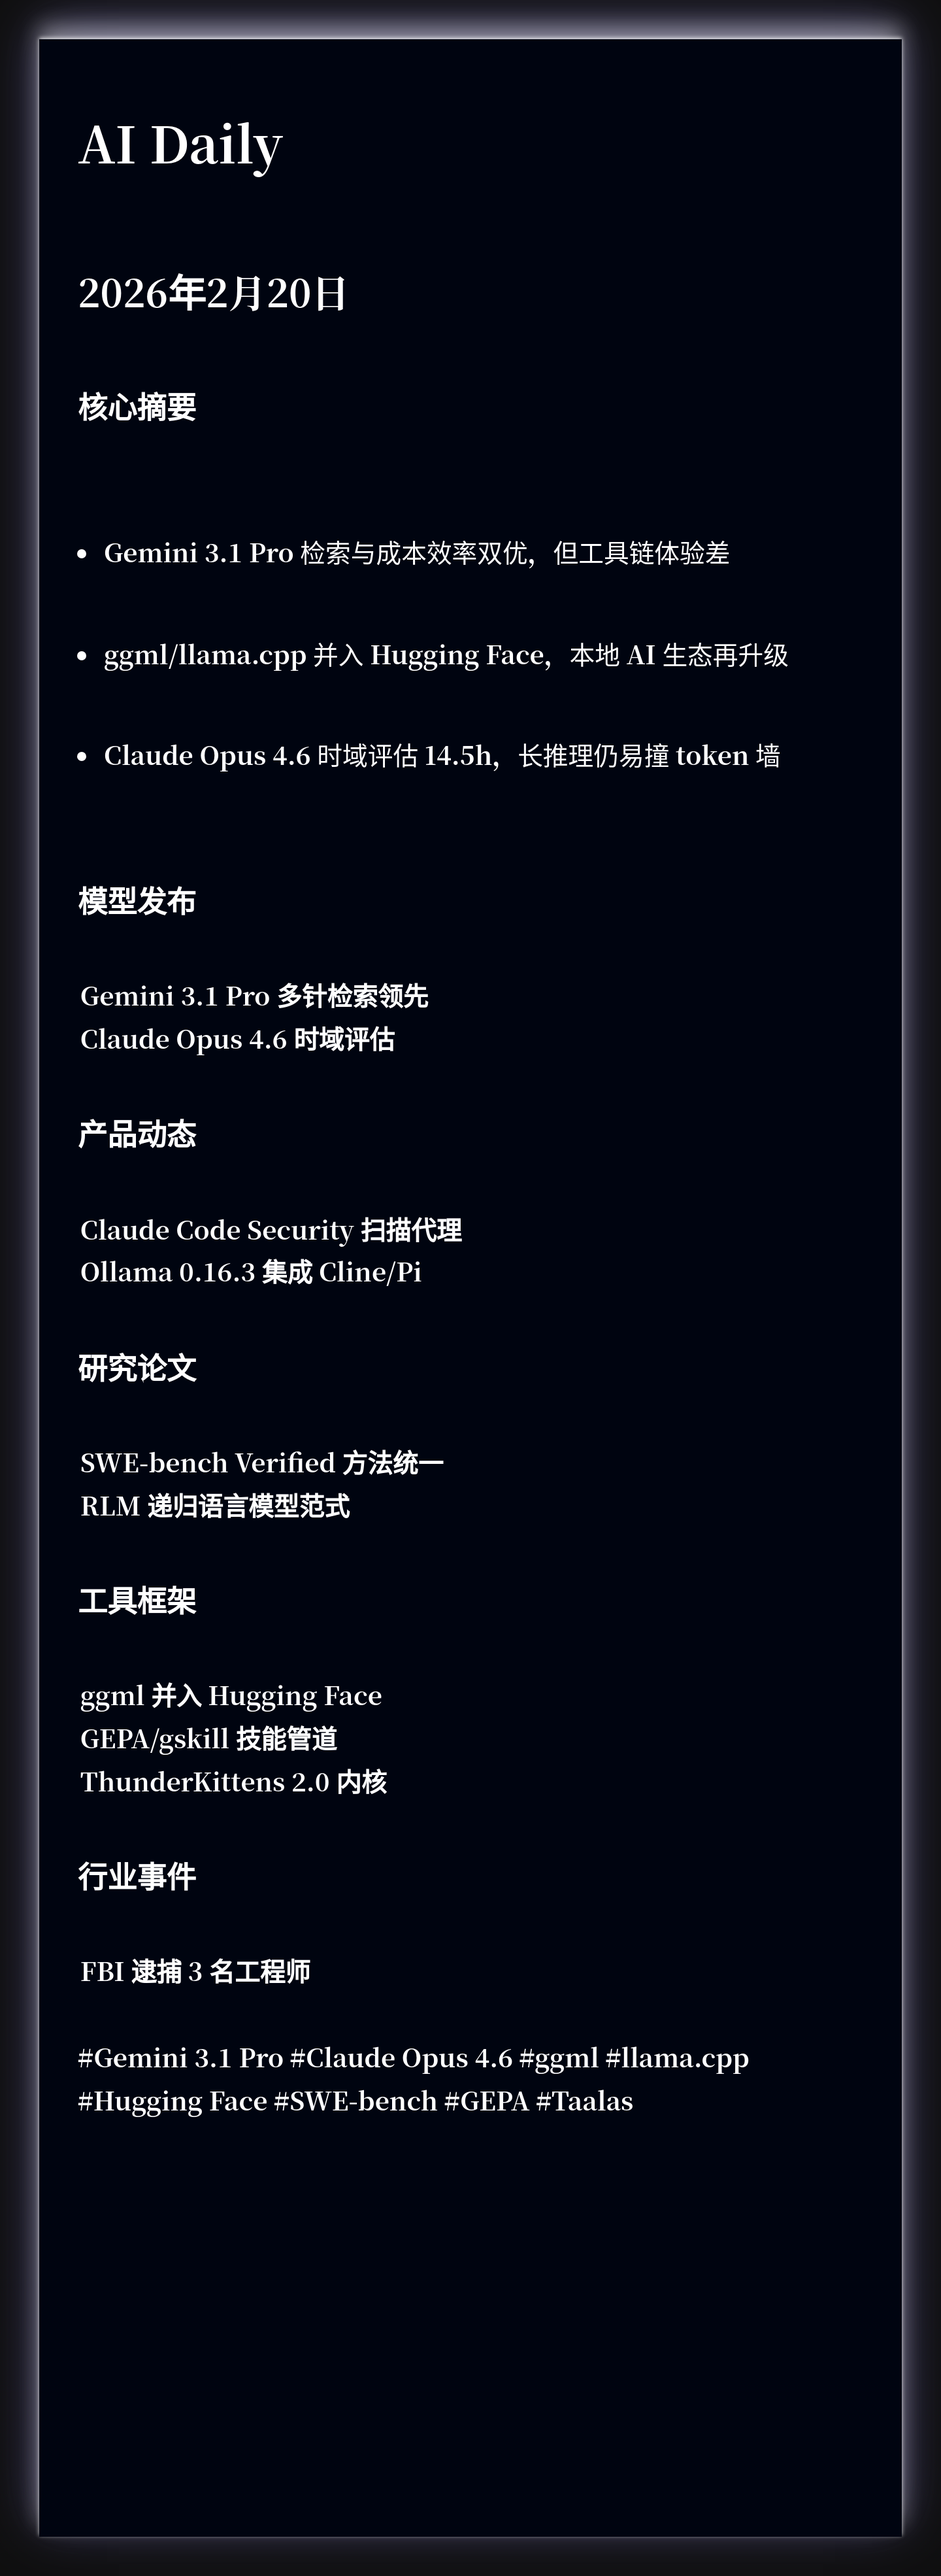
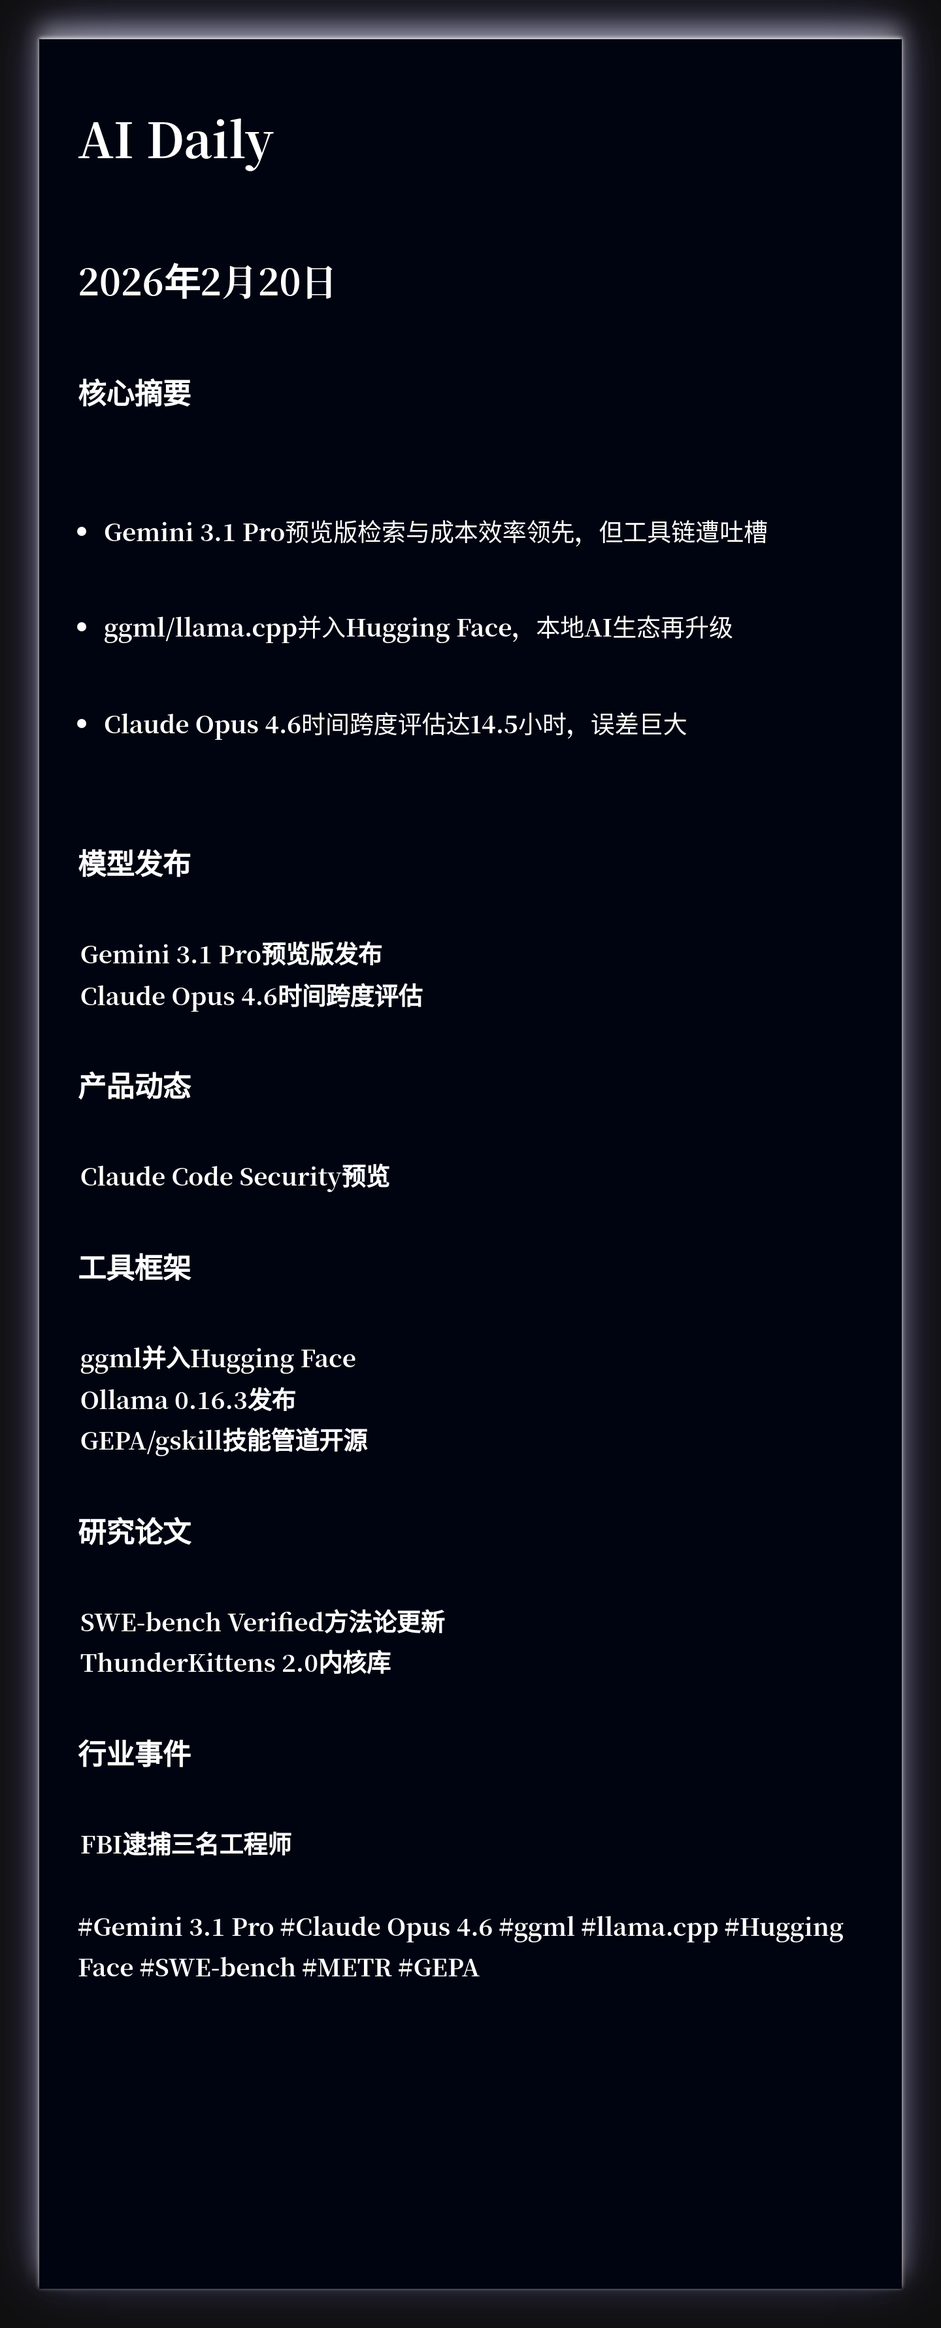
🤖 Auto update AI Daily - {{ date }} c12df99939e49153058be8885637e517e0945aa2

diff --git a/2026-02-20.html b/2026-02-20.html
@@ -5,7 +5,7 @@
     <meta name="viewport" content="width=device-width, initial-scale=1.0">
     <title>AI Daily · 2026年2月20日 星期五</title>
     <meta name="description" content="每日 AI 前沿资讯，智能分类，快速掌握核心动态">
-    <meta name="keywords" content="Gemini 3.1 Pro, Claude Opus 4.6, ggml, llama.cpp, Hugging Face, SWE-bench, GEPA, Taalas, Anthropic, METR, AI, 人工智能, 机器学习, 深度学习, 资讯, 日报">
+    <meta name="keywords" content="Gemini 3.1 Pro, Claude Opus 4.6, ggml, llama.cpp, Hugging Face, SWE-bench, METR, GEPA, Taalas, ThunderKittens, AI, 人工智能, 机器学习, 深度学习, 资讯, 日报">
     <link rel="stylesheet" href="css/styles.css">
 </head>
 <body data-theme="blue">
@@ -24,9 +24,9 @@
             <section class="summary-card">
                 <h2 class="section-title">📌 今日核心摘要</h2>
                 <ul class="summary-list">
-                <li class="summary-item">Gemini 3.1 Pro 检索与成本效率双优，但工具链体验差</li>
-                <li class="summary-item">ggml/llama.cpp 并入 Hugging Face，本地 AI 生态再升级</li>
-                <li class="summary-item">Claude Opus 4.6 时域评估 14.5h，长推理仍易撞 token 墙</li>
+                <li class="summary-item">Gemini 3.1 Pro预览版检索与成本效率领先，但工具链遭吐槽</li>
+                <li class="summary-item">ggml/llama.cpp并入Hugging Face，本地AI生态再升级</li>
+                <li class="summary-item">Claude Opus 4.6时间跨度评估达14.5小时，误差巨大</li>
                 </ul>
             </section>
 
@@ -41,20 +41,20 @@
 
                 <article class="news-card">
                     <div class="news-card-header">
-                        <h3 class="news-title">Gemini 3.1 Pro 多针检索领先</h3>
-                        <a href="https://x.com/DillonUzar/status/2024655613293215855" class="item-link" target="_blank" rel="noopener">详情</a>
+                        <h3 class="news-title">Gemini 3.1 Pro预览版发布</h3>
+                        <a href="https://x.com/ArtificialAnlys/status/2024677979390169536" class="item-link" target="_blank" rel="noopener">详情</a>
                     </div>
-                    <p class="news-summary">8-needle@128k AUC 87.8% 超 GPT-5.2，成本仅其 39%</p>
-                    <div class="item-tags"><span class="tag">#Gemini 3.1 Pro</span> <span class="tag">#Google</span> <span class="tag">#GPT-5.2</span></div>
+                    <p class="news-summary">128k上下文检索逼近GPT-5.2，成本仅其39%</p>
+                    <div class="item-tags"><span class="tag">#Google</span> <span class="tag">#Gemini</span> <span class="tag">#GPT-5.2</span></div>
                 </article>
 
                 <article class="news-card">
                     <div class="news-card-header">
-                        <h3 class="news-title">Claude Opus 4.6 时域评估</h3>
+                        <h3 class="news-title">Claude Opus 4.6时间跨度评估</h3>
                         <a href="https://x.com/METR_Evals/status/2024923422867030027" class="item-link" target="_blank" rel="noopener">详情</a>
                     </div>
-                    <p class="news-summary">METR 测得 50% 任务可持续 14.5h，置信区间极宽</p>
-                    <div class="item-tags"><span class="tag">#Claude Opus 4.6</span> <span class="tag">#Anthropic</span> <span class="tag">#METR</span></div>
+                    <p class="news-summary">METR测得50%任务完成时间14.5小时，置信区间6-98小时</p>
+                    <div class="item-tags"><span class="tag">#Anthropic</span> <span class="tag">#Claude</span> <span class="tag">#METR</span></div>
                 </article>
 
                 </div>
@@ -64,55 +64,17 @@
                 <div class="category-header">
                     <span class="category-icon">💼</span>
                     <h2 class="category-title">产品动态</h2>
-                    <span class="category-count">2</span>
+                    <span class="category-count">1</span>
                 </div>
                 <div class="news-grid">
 
                 <article class="news-card">
                     <div class="news-card-header">
-                        <h3 class="news-title">Claude Code Security 扫描代理</h3>
+                        <h3 class="news-title">Claude Code Security预览</h3>
                         <a href="https://x.com/claudeai/status/2024907535145468326" class="item-link" target="_blank" rel="noopener">详情</a>
                     </div>
-                    <p class="news-summary">预览版自动发现 500+ OSS 漏洞并给出补丁建议</p>
-                    <div class="item-tags"><span class="tag">#Anthropic</span> <span class="tag">#Claude Code</span> <span class="tag">#安全</span></div>
-                </article>
-
-                <article class="news-card">
-                    <div class="news-card-header">
-                        <h3 class="news-title">Ollama 0.16.3 集成 Cline/Pi</h3>
-                        <a href="https://x.com/ollama/status/2024978932127187375" class="item-link" target="_blank" rel="noopener">详情</a>
-                    </div>
-                    <p class="news-summary">ollama launch 一键拉起本地模型开发链</p>
-                    <div class="item-tags"><span class="tag">#Ollama</span> <span class="tag">#本地AI</span></div>
-                </article>
-
-                </div>
-            </section>
-
-            <section class="category-section">
-                <div class="category-header">
-                    <span class="category-icon">📚</span>
-                    <h2 class="category-title">研究论文</h2>
-                    <span class="category-count">2</span>
-                </div>
-                <div class="news-grid">
-
-                <article class="news-card">
-                    <div class="news-card-header">
-                        <h3 class="news-title">SWE-bench Verified 方法统一</h3>
-                        <a href="https://x.com/EpochAIResearch/status/2024924403142910137" class="item-link" target="_blank" rel="noopener">详情</a>
-                    </div>
-                    <p class="news-summary">Epoch AI 更新流程消除跨实验差异，结果更可信</p>
-                    <div class="item-tags"><span class="tag">#SWE-bench</span> <span class="tag">#Epoch AI</span></div>
-                </article>
-
-                <article class="news-card">
-                    <div class="news-card-header">
-                        <h3 class="news-title">RLM 递归语言模型范式</h3>
-                        <a href="https://x.com/omarsar0/status/2024973182436831629" class="item-link" target="_blank" rel="noopener">详情</a>
-                    </div>
-                    <p class="news-summary">通用元框架可涌现多代理拓扑，Gemini/GPT适配佳</p>
-                    <div class="item-tags"><span class="tag">#RLM</span> <span class="tag">#agent</span></div>
+                    <p class="news-summary">Anthropic推出漏洞扫描代理，已发现500+开源漏洞</p>
+                    <div class="item-tags"><span class="tag">#Anthropic</span> <span class="tag">#Claude</span> <span class="tag">#安全</span></div>
                 </article>
 
                 </div>
@@ -128,29 +90,58 @@
 
                 <article class="news-card">
                     <div class="news-card-header">
-                        <h3 class="news-title">ggml 并入 Hugging Face</h3>
+                        <h3 class="news-title">ggml并入Hugging Face</h3>
                         <a href="https://x.com/ggerganov/status/2024839991482777976" class="item-link" target="_blank" rel="noopener">详情</a>
                     </div>
-                    <p class="news-summary">llama.cpp 团队加盟，加速本地推理生态标准化</p>
-                    <div class="item-tags"><span class="tag">#ggml</span> <span class="tag">#llama.cpp</span> <span class="tag">#Hugging Face</span></div>
+                    <p class="news-summary">llama.cpp团队整体加入，加速本地AI推理生态</p>
+                    <div class="item-tags"><span class="tag">#ggml</span> <span class="tag">#Hugging Face</span> <span class="tag">#llama.cpp</span></div>
                 </article>
 
                 <article class="news-card">
                     <div class="news-card-header">
-                        <h3 class="news-title">GEPA/gskill 技能管道</h3>
+                        <h3 class="news-title">Ollama 0.16.3发布</h3>
+                        <a href="https://x.com/ollama/status/2024978932127187375" class="item-link" target="_blank" rel="noopener">详情</a>
+                    </div>
+                    <p class="news-summary">新增Cline与Pi集成，一键启动本地模型工作流</p>
+                    <div class="item-tags"><span class="tag">#Ollama</span> <span class="tag">#本地AI</span></div>
+                </article>
+
+                <article class="news-card">
+                    <div class="news-card-header">
+                        <h3 class="news-title">GEPA/gskill技能管道开源</h3>
                         <a href="https://x.com/ShangyinT/status/2024651061995458722" class="item-link" target="_blank" rel="noopener">详情</a>
                     </div>
-                    <p class="news-summary">自动生成+优化代理技能，Claude Code 提速 47%</p>
-                    <div class="item-tags"><span class="tag">#GEPA</span> <span class="tag">#gskill</span> <span class="tag">#agent</span></div>
+                    <p class="news-summary">自动学习代理技能，Claude Code任务提速47%</p>
+                    <div class="item-tags"><span class="tag">#GEPA</span> <span class="tag">#技能学习</span> <span class="tag">#代理</span></div>
+                </article>
+
+                </div>
+            </section>
+
+            <section class="category-section">
+                <div class="category-header">
+                    <span class="category-icon">📚</span>
+                    <h2 class="category-title">研究论文</h2>
+                    <span class="category-count">2</span>
+                </div>
+                <div class="news-grid">
+
+                <article class="news-card">
+                    <div class="news-card-header">
+                        <h3 class="news-title">SWE-bench Verified方法论更新</h3>
+                        <a href="https://x.com/EpochAIResearch/status/2024924403142910137" class="item-link" target="_blank" rel="noopener">详情</a>
+                    </div>
+                    <p class="news-summary">Epoch AI承认旧评估不一致，统一流程后结果更接近开发者体验</p>
+                    <div class="item-tags"><span class="tag">#SWE-bench</span> <span class="tag">#Epoch AI</span></div>
                 </article>
 
                 <article class="news-card">
                     <div class="news-card-header">
-                        <h3 class="news-title">ThunderKittens 2.0 内核</h3>
+                        <h3 class="news-title">ThunderKittens 2.0内核库</h3>
                         <a href="https://x.com/stuart_sul/status/2024897621874422125" class="item-link" target="_blank" rel="noopener">详情</a>
                     </div>
-                    <p class="news-summary">Blackwell 上 BF16/MXFP4 GEMM 性能追平或超 cuBLAS</p>
-                    <div class="item-tags"><span class="tag">#ThunderKittens</span> <span class="tag">#CUDA</span></div>
+                    <p class="news-summary">Blackwell架构BF16/MXFP8 GEMM性能追平或超越cuBLAS</p>
+                    <div class="item-tags"><span class="tag">#ThunderKittens</span> <span class="tag">#CUDA</span> <span class="tag">#Blackwell</span></div>
                 </article>
 
                 </div>
@@ -166,10 +157,10 @@
 
                 <article class="news-card">
                     <div class="news-card-header">
-                        <h3 class="news-title">FBI 逮捕 3 名工程师</h3>
+                        <h3 class="news-title">FBI逮捕三名工程师</h3>
                         <a href="https://x.com/FBISanFrancisco/status/2024670479974363376" class="item-link" target="_blank" rel="noopener">详情</a>
                     </div>
-                    <p class="news-summary">涉嫌窃取 Google 等芯片安全与加密机密</p>
+                    <p class="news-summary">涉嫌窃取Google等处理器安全与加密商业机密</p>
                     <div class="item-tags"><span class="tag">#Google</span> <span class="tag">#FBI</span> <span class="tag">#知识产权</span></div>
                 </article>
 
@@ -178,7 +169,7 @@
 
 
         <footer class="keywords-footer">
-            <p>#关键词: Gemini 3.1 Pro | Claude Opus 4.6 | ggml | llama.cpp | Hugging Face | SWE-bench | GEPA | Taalas | Anthropic | METR</p>
+            <p>#关键词: Gemini 3.1 Pro | Claude Opus 4.6 | ggml | llama.cpp | Hugging Face | SWE-bench | METR | GEPA | Taalas | ThunderKittens</p>
         </footer>
 
         </main>

diff --git a/index.html b/index.html
@@ -24,12 +24,12 @@
                 <div class="index-entries">
 
             <article class="index-entry">
-                <a href="2026-02-21.html" class="entry-link">
+                <a href="2026-02-20.html" class="entry-link">
                     <div class="entry-header">
-                        <span class="entry-date">2026年2月21日 星期六</span>
+                        <span class="entry-date">2026年2月20日 星期五</span>
                         <span class="entry-arrow">→</span>
                     </div>
-                    <p class="entry-summary">Gemini 3.1 Pro 检索力追平 GPT-5.2，成本仅其 38%</p>
+                    <p class="entry-summary">Gemini 3.1 Pro预览版检索与成本效率领先，但工具链遭吐槽</p>
                 </a>
             </article>
 

diff --git a/xiaohongshu/xhs-2026-02-20.html b/xiaohongshu/xhs-2026-02-20.html
@@ -318,7 +318,7 @@
                 <div class="title-section">
                     <div class="main-title">AI</div>
                     <div class="divider"></div>
-                    <div class="subtitle">Gemini 3.1 Pro 检索与成本效率双优，...</div>
+                    <div class="subtitle">Gemini 3.1 Pro预览版检索与成本效率领...</div>
 
                     <!-- 亮点 -->
                     <div class="highlights">
